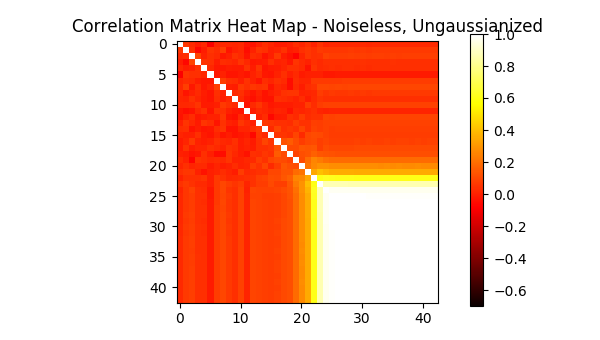
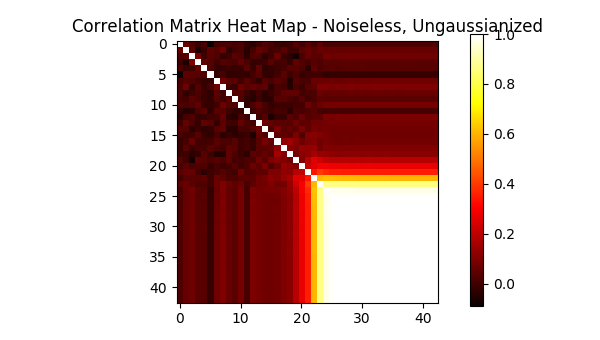
playing around with corrmat.png

diff --git a/Parallel Gaussianization/Normal Maps/SNR_norm.py b/Parallel Gaussianization/Normal Maps/SNR_norm.py
@@ -158,7 +158,7 @@ fig2 = plt.figure(figsize=(6, 3.4))
 
 ax = fig2.add_subplot(111)
 ax.set_title('Correlation Matrix Heat Map - Noiseless, Ungaussianized')
-plt.imshow(np.array(correl), cmap = 'hot', vmin = -0.7, vmax = 1.0)
+plt.imshow(np.array(correl), cmap = 'hot')#, vmin = -0.7, vmax = 1.0)
 ax.set_aspect('equal')
 
 cax = fig2.add_axes([0.12, 0.1, 0.78, 0.8])
